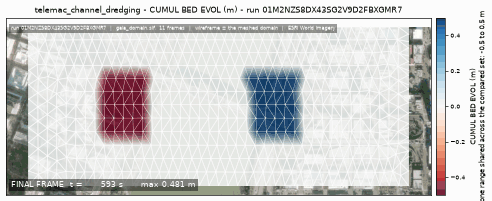
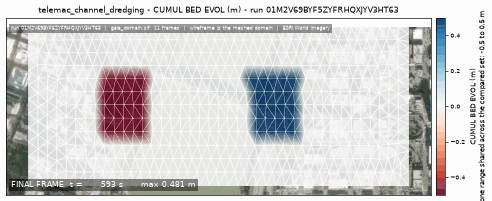
docs: the dredging page is pinned to a run made on the refusal it ships
settle_dredge now measures the cut the declaration asks against the erodible
stock before the run dispatches, and the page's figures were stamped at a commit
that predates it - a picture claiming to be of code the tree no longer has. The
page is re-rendered from the same drawn-ring declaration, driven on this tree.

Claude-Session: https://claude.ai/code/session_011wCduZ7TyoMtpZoGZfh2Rw

Changed region(s): [[0.061, 0.0299, 0.8232, 0.0896], [0.061, 0.1194, 0.7012, 0.1791]]

diff --git a/docs/templates/telemac_channel_dredging.md b/docs/templates/telemac_channel_dredging.md
@@ -81,19 +81,19 @@ It publishes these layers onto the canvas:
 
 ## The proving run
 
-Run `01M2NZS8DX43SG2V9D2FBXGMR7`, 2026-09-16T20:51:14.036909+00:00, 28.37 s, at commit `1883ff4c1867377c3bb4efdec4e2a87450e5fefa-dirty`.
+Run `01M2V69BYF5ZYFRHQXJYV3HT63`, 2026-09-18T21:21:03.623357+00:00, 26.723 s, at commit `8eba94106846834e5607d1d9d24089509dbfda25`.
 
-![Every layer the run published, stacked and framed on the result (run 01M2NZS8DX43SG2V9D2FBXGMR7)](telemac_channel_dredging/telemac_channel_dredging.png)
+![Every layer the run published, stacked and framed on the result (run 01M2V69BYF5ZYFRHQXJYV3HT63)](telemac_channel_dredging/telemac_channel_dredging.png)
 
-*Every layer the run published, stacked and framed on the result (run 01M2NZS8DX43SG2V9D2FBXGMR7)*
+*Every layer the run published, stacked and framed on the result (run 01M2V69BYF5ZYFRHQXJYV3HT63)*
 
-![The solve, frame by frame (run 01M2NZS8DX43SG2V9D2FBXGMR7)](telemac_channel_dredging/telemac_channel_dredging_animation.gif)
+![The solve, frame by frame (run 01M2V69BYF5ZYFRHQXJYV3HT63)](telemac_channel_dredging/telemac_channel_dredging_animation.gif)
 
-*The solve, frame by frame (run 01M2NZS8DX43SG2V9D2FBXGMR7)*
+*The solve, frame by frame (run 01M2V69BYF5ZYFRHQXJYV3HT63)*
 
-![final frame (run 01M2NZS8DX43SG2V9D2FBXGMR7)](telemac_channel_dredging/telemac_channel_dredging_final_frame.png)
+![final frame (run 01M2V69BYF5ZYFRHQXJYV3HT63)](telemac_channel_dredging/telemac_channel_dredging_final_frame.png)
 
-*final frame (run 01M2NZS8DX43SG2V9D2FBXGMR7)*
+*final frame (run 01M2V69BYF5ZYFRHQXJYV3HT63)*
 
 ### The sheet it filled
 
@@ -141,5 +141,5 @@ await TOOL_REGISTRY['telemac_channel_dredging'].fn(
 )
 ```
 
-That is the invocation this run came from; the figures above are stamped with run `01M2NZS8DX43SG2V9D2FBXGMR7` and commit `1883ff4c1867377c3bb4efdec4e2a87450e5fefa-dirty`. The full argument record is [`telemac_channel_dredging/run.json`](telemac_channel_dredging/run.json).
+That is the invocation this run came from; the figures above are stamped with run `01M2V69BYF5ZYFRHQXJYV3HT63` and commit `8eba94106846834e5607d1d9d24089509dbfda25`. The full argument record is [`telemac_channel_dredging/run.json`](telemac_channel_dredging/run.json).
 

diff --git a/docs/templates/index.md b/docs/templates/index.md
@@ -34,7 +34,7 @@ Module `telemac2d`, proving run `01M2NZNACVVCJH5GJBX9VQEE5N`.
 
 MAINTENANCE DREDGING of a navigation channel: how much comes out, and what the bed does.
 
-Module `telemac2d`, proving run `01M2NZS8DX43SG2V9D2FBXGMR7`.
+Module `telemac2d`, proving run `01M2V69BYF5ZYFRHQXJYV3HT63`.
 
 ## [`telemac_do_sag`](telemac_do_sag.md)
 
